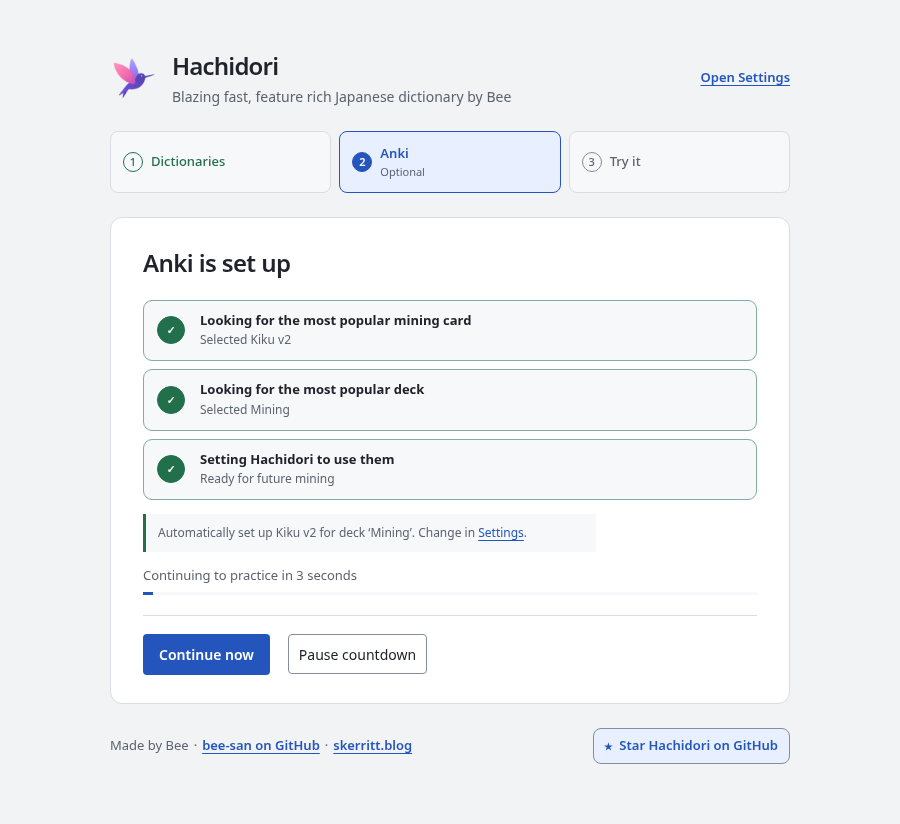
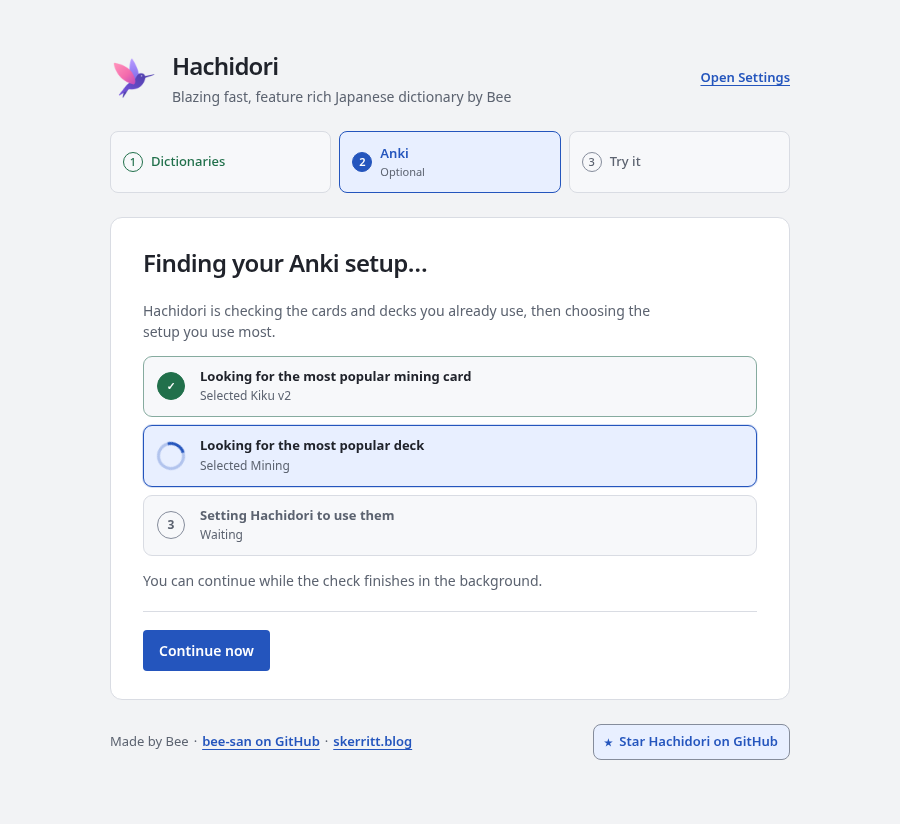
fix(startup): reveal Anki choices progressively

diff --git a/extension/startup.js b/extension/startup.js
@@ -28,7 +28,7 @@ const SETUP_EVENTS_TARGET = "hachidori-setup-events";
 const ENGINE_TARGET = "hoshidicts-offscreen";
 const ANKI_RESULT_DISPLAY_MS = 3000;
 const COUNTDOWN_TICK_MS = 250;
-const ANKI_PROGRESS_STEP_MS = 1000;
+const ANKI_PROGRESS_STEP_MS = 2000;
 const ANKI_PROGRESS_STEPS = 3;
 // A run reports at every phase change and about ten times a second while a body
 // arrives, so a longer silence means the offscreen document that owned it is gone.
@@ -513,24 +513,24 @@ function scheduleAnkiProgressRender() {
   }, Math.max(0, nextBoundary - elapsed));
 }
 
-function ankiProgressView(anki = null) {
+function ankiProgressView(anki = null, complete = false) {
   const steps = [
     "Looking for the most popular mining card",
     "Looking for the most popular deck",
     "Setting Hachidori to use them",
   ];
-  const configured = anki?.status === "configured";
-  const current = configured ? ANKI_PROGRESS_STEPS : ankiProgressStep();
-  const details = configured
+  const selected = anki?.status === "configured";
+  const current = complete ? ANKI_PROGRESS_STEPS : ankiProgressStep();
+  const details = selected
     ? [`Selected ${anki.model}`, `Selected ${anki.deck}`, "Ready for future mining"]
-    : ["Mining card found", "Deck found", "Saving your selection"];
+    : [];
   const list = document.createElement("ol");
   list.className = "setup-anki-progress";
   list.setAttribute("aria-label", "Automatic Anki setup");
   for (const [index, title] of steps.entries()) {
     const row = document.createElement("li");
-    const done = configured || index < current;
-    const active = !configured && index === current;
+    const done = index < current;
+    const active = !complete && index === current;
     row.className = "setup-anki-progress-step";
     row.classList.toggle("is-done", done);
     row.classList.toggle("is-current", active);
@@ -546,7 +546,7 @@ function ankiProgressView(anki = null) {
     label.textContent = title;
     const detail = document.createElement("small");
     let detailText = "Waiting";
-    if (done) detailText = details[index];
+    if (done || (active && selected)) detailText = details[index];
     else if (active) detailText = "Checking Anki…";
     detail.textContent = detailText;
     copy.append(label, detail);
@@ -556,13 +556,13 @@ function ankiProgressView(anki = null) {
   return list;
 }
 
-function automaticAnkiView() {
+function automaticAnkiView(anki = null) {
   scheduleAnkiProgressRender();
   return {
     heading: "Finding your Anki setup…",
     body: [
       paragraph("Hachidori is checking the cards and decks you already use, then choosing the setup you use most."),
-      ankiProgressView(),
+      ankiProgressView(anki),
       paragraph("You can continue while the check finishes in the background."),
     ],
     actions: [button("setup-continue", "Continue now", () => { void advance("practice"); })],
@@ -571,9 +571,10 @@ function automaticAnkiView() {
 
 function requestAnkiSetup() {
   if (ankiRequest !== null) return ankiRequest;
+  const showPending = ankiFailed;
   ankiFailed = false;
-  startAnkiProgress();
-  ankiRequest = send("hd_setup_anki", {}).then((reply) => {
+  stopAnkiProgress();
+  const request = send("hd_setup_anki", {}).then((reply) => {
     if (!reply.ok) throw new Error(reply.error || "Anki could not be checked");
     adoptSetupState(reply.state);
     // The reply promises a recorded outcome; without one the check is reported, not repeated.
@@ -586,7 +587,12 @@ function requestAnkiSetup() {
     ankiRequest = null;
     render();
   });
-  return ankiRequest;
+  ankiRequest = request;
+  if (showPending) {
+    setStatus("Finding your Anki setup…");
+    render();
+  }
+  return request;
 }
 
 // The settled Anki outcome, with its Settings link, as one readable sentence.
@@ -647,22 +653,24 @@ function ankiView() {
   // Keep each real detection step visible once before revealing a successful
   // automatic choice; the worker's existing detection and saved result remain
   // the source of truth.
-  if (anki.status === "configured" && ankiProgressStartedAt !== null
-      && Date.now() - ankiProgressStartedAt < ANKI_PROGRESS_STEPS * ANKI_PROGRESS_STEP_MS) {
-    return automaticAnkiView();
+  if (anki.status === "configured") {
+    if (ankiProgressStartedAt === null) startAnkiProgress();
+    if (Date.now() - ankiProgressStartedAt < ANKI_PROGRESS_STEPS * ANKI_PROGRESS_STEP_MS) {
+      return automaticAnkiView(anki);
+    }
   }
   if (anki.status !== "configured") stopAnkiProgress();
   if (advanceFailed) {
     cancelCountdown();
     return { heading: ankiHeading(anki),
-      body: [...(anki.status === "configured" ? [ankiProgressView(anki)] : []), ankiOutcomeNote(anki)],
+      body: [...(anki.status === "configured" ? [ankiProgressView(anki, true)] : []), ankiOutcomeNote(anki)],
       actions: [button("setup-continue", "Continue setup", () => { void advance("practice"); })] };
   }
   if (countdownPaused) cancelCountdown();
   else startCountdown("anki", "practice", "practice", ANKI_RESULT_DISPLAY_MS);
   return {
     heading: ankiHeading(anki),
-    body: [...(anki.status === "configured" ? [ankiProgressView(anki)] : []), ankiOutcomeNote(anki),
+    body: [...(anki.status === "configured" ? [ankiProgressView(anki, true)] : []), ankiOutcomeNote(anki),
       countdownPaused ? paragraph("Automatic continuation is paused. Continue when you’re ready.") : countdownView()],
     actions: [
       button("setup-continue", "Continue now", () => { void finishCountdown("anki", "practice"); }),

diff --git a/docs/startup-ui-review.md b/docs/startup-ui-review.md
@@ -17,12 +17,13 @@ Anki is labelled **Optional** in the progress indicator. Its check offers
 **Continue now** immediately, and a late result preserves the stage the user
 has reached. A failed connection says **Anki isn’t connected**, without
 claiming that Anki is absent. Dictionary success advances immediately. The
-three successful Anki detection steps each remain visible for one second, then
-the settled result remains for three seconds. On the final step, the ordinary
-reader immediately selects and looks up the demonstrated word once; its
-keyboard button and hover route remain available. Installation explains that
-it continues after the tab closes, and ZIP imports are clearly separate from
-the personal dictionary.
+three successful Anki detection steps each remain visible for two seconds. The
+selected card appears on the first step and the selected deck on the second,
+instead of withholding both names until the result. The settled result then
+remains for three seconds. On the final step, the ordinary reader immediately
+selects and looks up the demonstrated word once; its keyboard button and hover
+route remain available. Installation explains that it continues after the tab
+closes, and ZIP imports are clearly separate from the personal dictionary.
 
 The card has clearer heading and action spacing, less competing Anki feedback
 on the practice screen, and full-width dictionary status text. Existing light
@@ -34,15 +35,16 @@ narrow widths (failure uses 500 × 800; real practice uses 1200 × 1000). The fi
 actual packaged page, scripts and styles with controlled setup records,
 dictionary inventories and Anki replies; the background worker is inert.
 They show the UI states and do not prove downloads or lookups. The practice
-capture comes from the full extension browser test, with catalogue fixtures
-imported through the production engine. All images were inspected without
-editing. The capture driver and state/overflow report remain in the local
+and progressive Anki captures come from the full extension browser test, with
+catalogue fixtures imported through the production engine and AnkiConnect
+mocked at the service worker. All images were inspected without editing. The
+capture driver and state/overflow report for the controlled captures remain in the local
 `hachidori-merge-prs-20260908` run directory as `pr85-capture.mjs` and
 `pr85-captures.json`.
 
-| Three-second Anki result | Automatic real lookup |
+| Progressive Anki choices | Automatic real lookup |
 | --- | --- |
-| ![Configured Anki result](assets/startup-auto-anki.png) | ![Practice page showing its automatic lookup](assets/startup-auto-lookup.png) |
+| ![Configured card followed by the selected deck](assets/startup-auto-anki.png) | ![Practice page showing its automatic lookup](assets/startup-auto-lookup.png) |
 
 ![Empty library with Add dictionaries and Finish setup](assets/startup-refined-empty.png)
 

diff --git a/test/README.md b/test/README.md
@@ -793,8 +793,9 @@ its distinct notes, save that model, deck and the resolved preset templates
 through the revisioned options write, record the `configured` outcome, and
 issue only the fixed read-only actions in ranking order at protocol version 6.
 The page visibly advances through finding the most popular mining card, finding
-its most popular deck and applying both, then shows the selected names for five
-seconds before practice.
+its most popular deck and applying both. Each step holds for two seconds and
+shows its chosen card or deck as that step is reached, then the settled result
+holds for three seconds before practice.
 The mock is detached and the previous setup record and Anki options are
 restored, so the Anki Settings checks below still begin with a lazy, offline
 connection and an unconfigured mapping.
@@ -802,8 +803,8 @@ connection and an unconfigured mapping.
 `HACHIDORI_STARTUP_COMPLETE_SCREENSHOT`/`_DARK_SCREENSHOT` the countdown
 result, `HACHIDORI_STARTUP_READY_SCREENSHOT`/`_DARK_SCREENSHOT` the final step
 after an absent Anki, and
-`HACHIDORI_STARTUP_ANKI_SCREENSHOT`/`_DARK_SCREENSHOT` the held automatic Anki
-result with all three selection steps, and
+`HACHIDORI_STARTUP_ANKI_SCREENSHOT`/`_DARK_SCREENSHOT` the automatic Anki
+progress with the chosen card complete and the chosen deck current, and
 `HACHIDORI_STARTUP_PRACTICE_SCREENSHOT`/`_DARK_SCREENSHOT` the practice step with
 a real lookup open. `HACHIDORI_SETTINGS_SCREENSHOT` captures the empty import
 drop target and `HACHIDORI_IMPORT_SCREENSHOT` captures its completed shared

diff --git a/docs/architecture.md b/docs/architecture.md
@@ -335,10 +335,12 @@ on its own. Anki is explicitly optional. **Continue now** is available during
 the check; its eventual reply adopts the latest recorded stage without moving
 the user back. A failed connection says **Anki isn’t connected**, rather than
 claiming Anki is absent. A successful automatic configuration keeps each of
-its three progress steps visible for one second. Every settled outcome remains
-for three seconds before setup continues to practice.
+its three progress steps visible for two seconds. The chosen model appears on
+the first step and the chosen deck on the second as that staged result is
+displayed. Every settled outcome remains for three seconds before setup
+continues to practice.
 
-![Configured Anki result during its three-second continuation](assets/startup-auto-anki.png)
+![Configured card followed by the selected deck during automatic setup](assets/startup-auto-anki.png)
 
 ![The final step after an absent Anki, light palette](assets/startup-ready.png)
 
